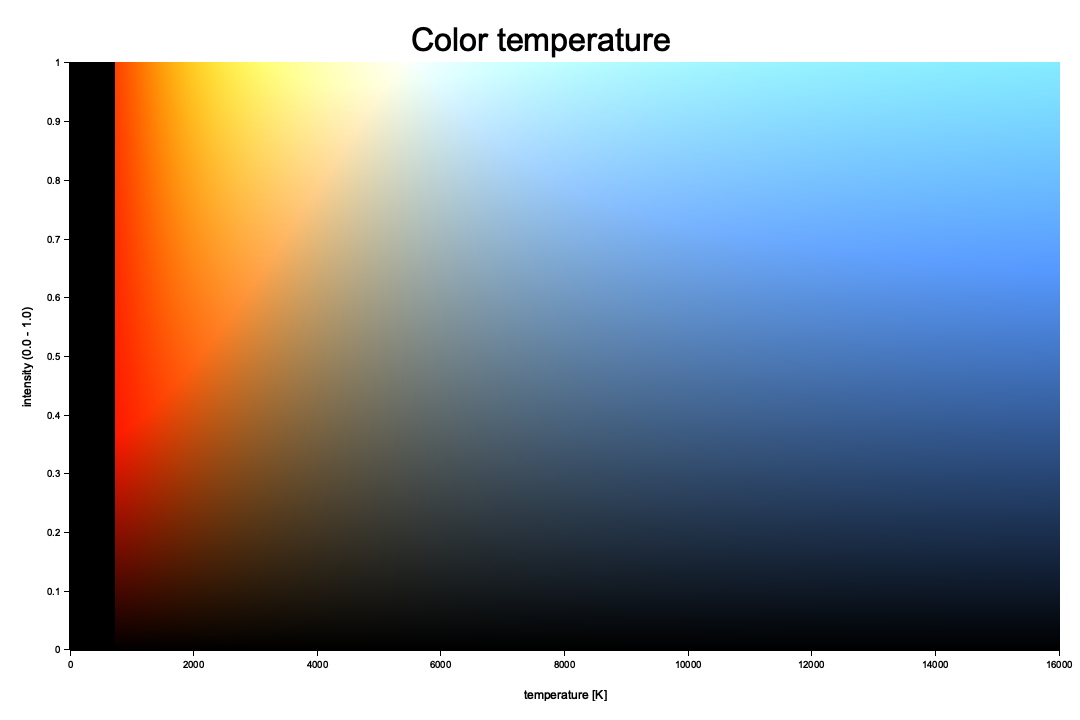
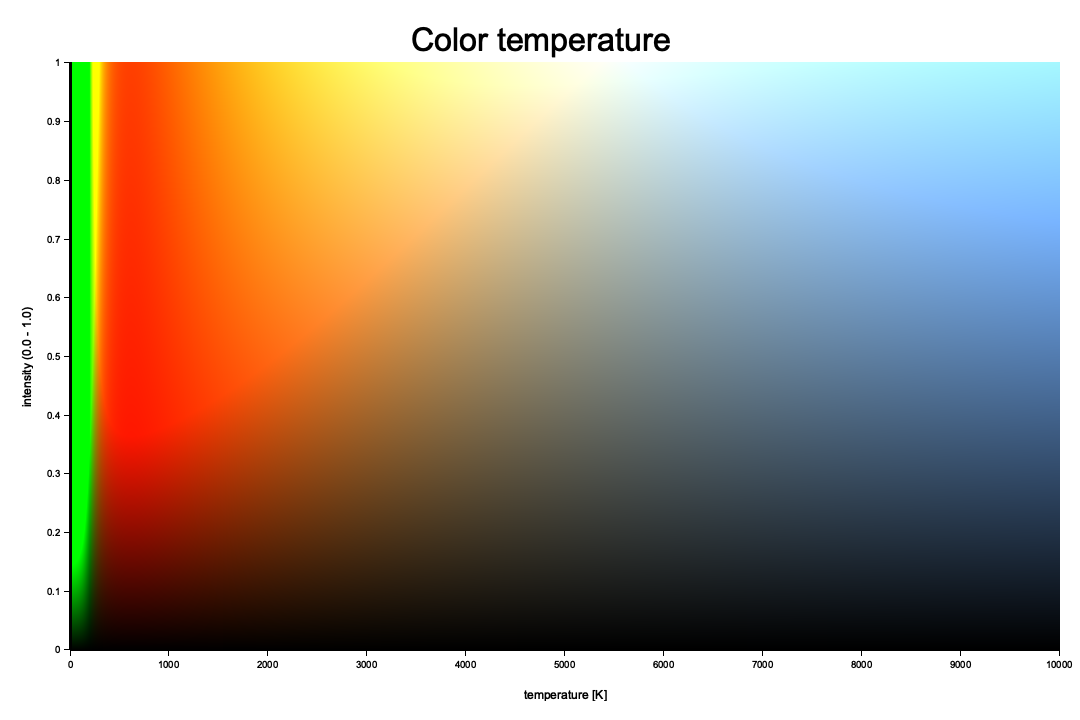
works

diff --git a/black-body/src/bin/color_temperature.rs b/black-body/src/bin/color_temperature.rs
@@ -1,11 +1,13 @@
-use black_body::BlackBody;
 use plotters::prelude::*;
+
+use black_body::BlackBody;
+
 fn main() -> Result<(), Box<dyn std::error::Error>> {
     let output_path = "artifacts/output/color_temperature.png";
     let width = 1080;
     let height = 720;
 
-    let (x_min, x_max) = (0.0, 16000.0 as f32);
+    let (x_min, x_max) = (0.0, 10_000.0 as f32);
     let (y_min, y_max) = (0.0, 1.0 as f32);
     let (x_lim, y_lim) = (x_min..x_max, y_min..y_max);
 
@@ -37,41 +39,29 @@ fn main() -> Result<(), Box<dyn std::error::Error>> {
 
     // draw line for each temperature
     for xi in 0..=pixel_width {
-        println!("{:?}", xi);
         let x = (xi as f32) / pixel_width as f32 * (x_max - x_min);
-        println!("{:?}", x);
 
-        // println!("temperature: {:?}", x);
         let body = BlackBody::new(x as f64);
         let color = body.color_for_eye();
+        println!("raw color: {:?}", color);
 
         for yi in 0..=pixel_heght {
             let y = yi as f32 / pixel_heght as f32;
 
-            // println!("raw color: {:?}", color);
-            let norm: f64 = color[0..3].into_iter().sum();
-            let color = if norm < 1.0e-6 {
-                BLACK.to_rgba()
-            } else {
-                let color = color
-                    .iter()
-                    .map(|&x| 3.0 * (y as f64 / y_max as f64) * x / norm)
-                    .collect::<Vec<f64>>();
+            let intensity = (y / y_max) as f64;
+            let color = RGBAColor(
+                (255.0 * intensity * color[0]) as u8,
+                (255.0 * intensity * color[1]) as u8,
+                (255.0 * intensity * color[2]) as u8,
+                1.0,
+            );
 
-                // println!("normalized color: {:?}", color);
+            println!("color rgb: {:?}", color);
 
-                let color = color
-                    .iter()
-                    .map(|&x| (x * 255.0) as u8)
-                    .collect::<Vec<u8>>();
-                let color = RGBAColor(color[0], color[1], color[2], 1.0);
-                // println!("color rgb: {:?}", color);
-                color
-            };
-
-            let _ = plotting_area.draw_pixel((x, y as f32), &color);
+            let _ = plotting_area.draw_pixel((x, y), &color);
         }
     }
+
     root.present()?;
 
     Ok(())

diff --git a/black-body/src/lib.rs b/black-body/src/lib.rs
@@ -63,20 +63,24 @@ impl BlackBody {
             VISIBLE_UPPER,
             ((VISIBLE_UPPER - VISIBLE_LOWER) / WAVE_LENGTH_STEP) as usize,
         );
-        let x = wavelength
-            .clone()
-            .map(|l| self.radiance(l * 1.0e-9) * approx_color_x(l) * WAVE_LENGTH_STEP * 1.0e-9)
-            .sum::<f64>();
+
         let y = wavelength
             .clone()
             .map(|l| self.radiance(l * 1.0e-9) * approx_color_y(l) * WAVE_LENGTH_STEP * 1.0e-9)
+            .sum::<f64>();
+        let x = wavelength
+            .clone()
+            .map(|l| self.radiance(l * 1.0e-9) * approx_color_x(l) * WAVE_LENGTH_STEP * 1.0e-9)
             .sum::<f64>();
         let z = wavelength
             .clone()
             .map(|l| self.radiance(l * 1.0e-9) * approx_color_z(l) * WAVE_LENGTH_STEP * 1.0e-9)
             .sum::<f64>();
 
-        xyz_to_rgb([x, y, z])
+        let (r, g, b) = xyz_to_rgb(x, y, z);
+        let norm = (r + g + b) / 3.0;
+
+        [r / norm, g / norm, b / norm]
     }
 }
 
@@ -109,14 +113,14 @@ fn segmented_gaussian(x: f64, mu: f64, sigma1: f64, sigma2: f64) -> f64 {
     }
 }
 
-fn xyz_to_rgb(xyz: [f64; 3]) -> [f64; 3] {
+fn xyz_to_rgb(x: f64, y: f64, z: f64) -> (f64, f64, f64) {
     let m = [
         [0.41847, -0.15866, -0.082835],
         [-0.091169, 0.25243, 0.015708],
         [0.00092090, -0.0025498, 0.17860],
     ];
-    let r = m[0][0] * xyz[0] + m[0][1] * xyz[1] + m[0][2] * xyz[2];
-    let g = m[1][0] * xyz[0] + m[1][1] * xyz[1] + m[1][2] * xyz[2];
-    let b = m[2][0] * xyz[0] + m[2][1] * xyz[1] + m[2][2] * xyz[2];
-    [r, g, b]
+    let r = m[0][0] * x + m[0][1] * y + m[0][2] * z;
+    let g = m[1][0] * x + m[1][1] * y + m[1][2] * z;
+    let b = m[2][0] * x + m[2][1] * y + m[2][2] * z;
+    (r, g, b)
 }
